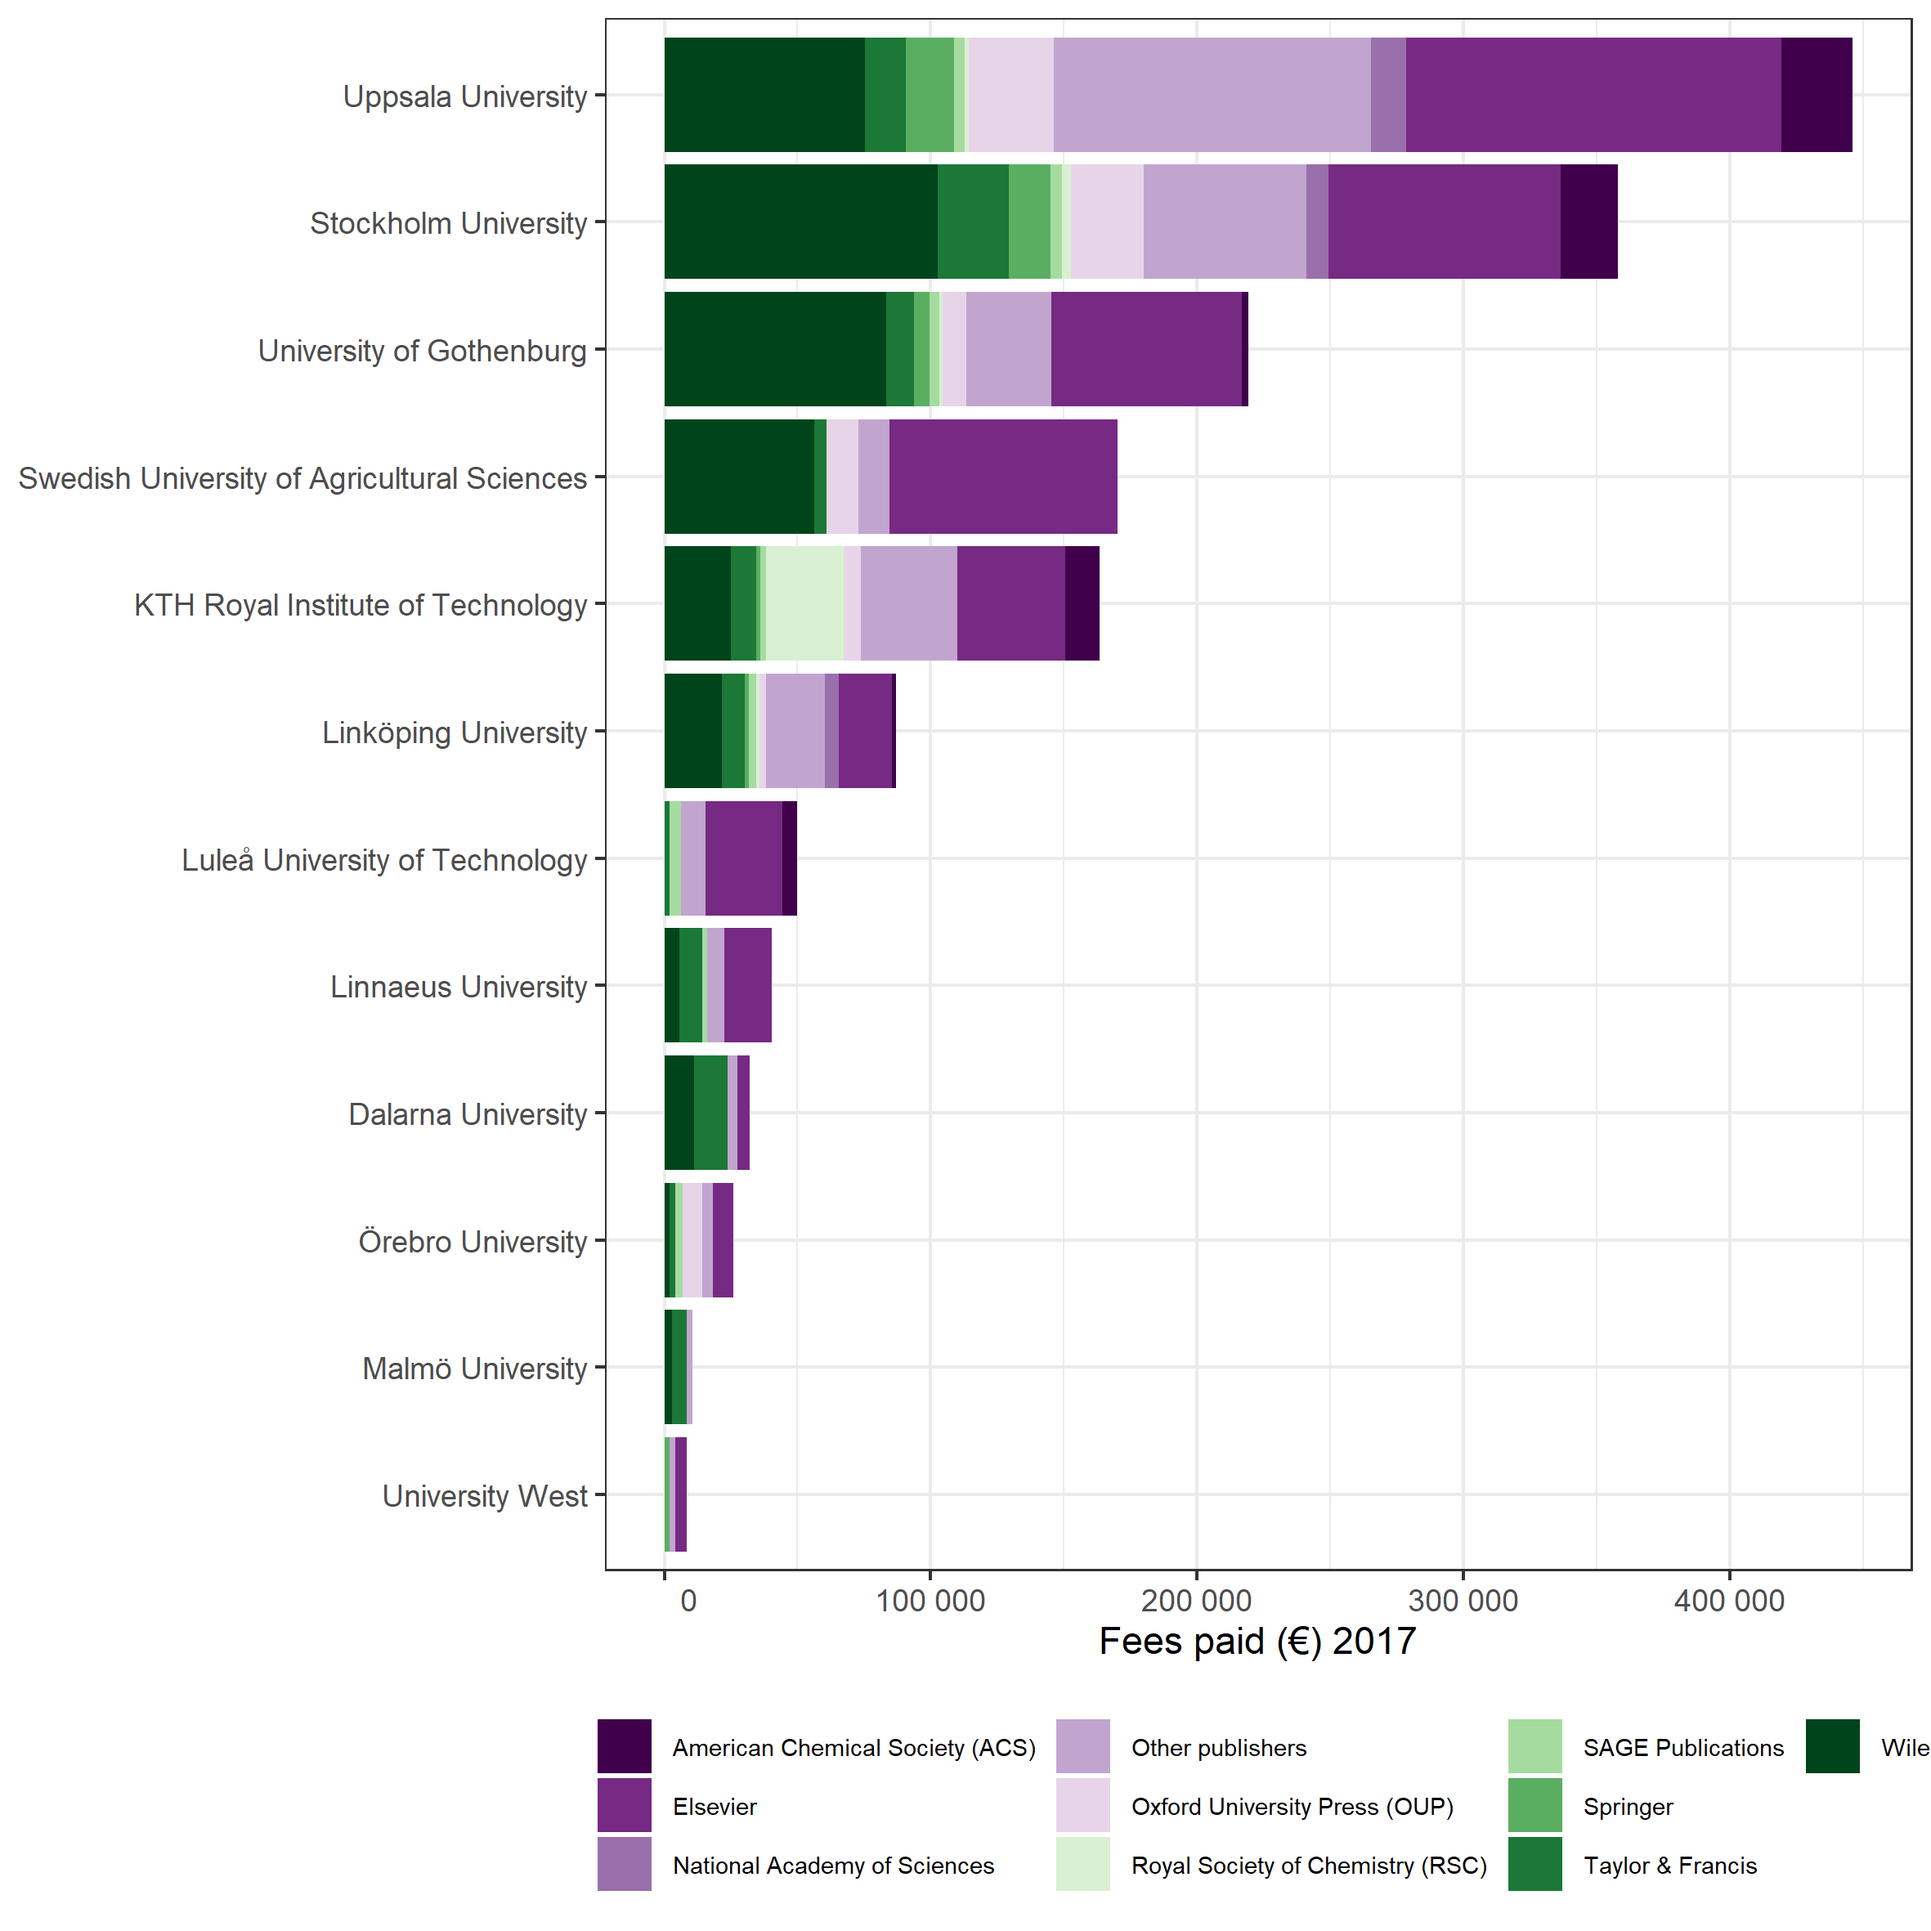
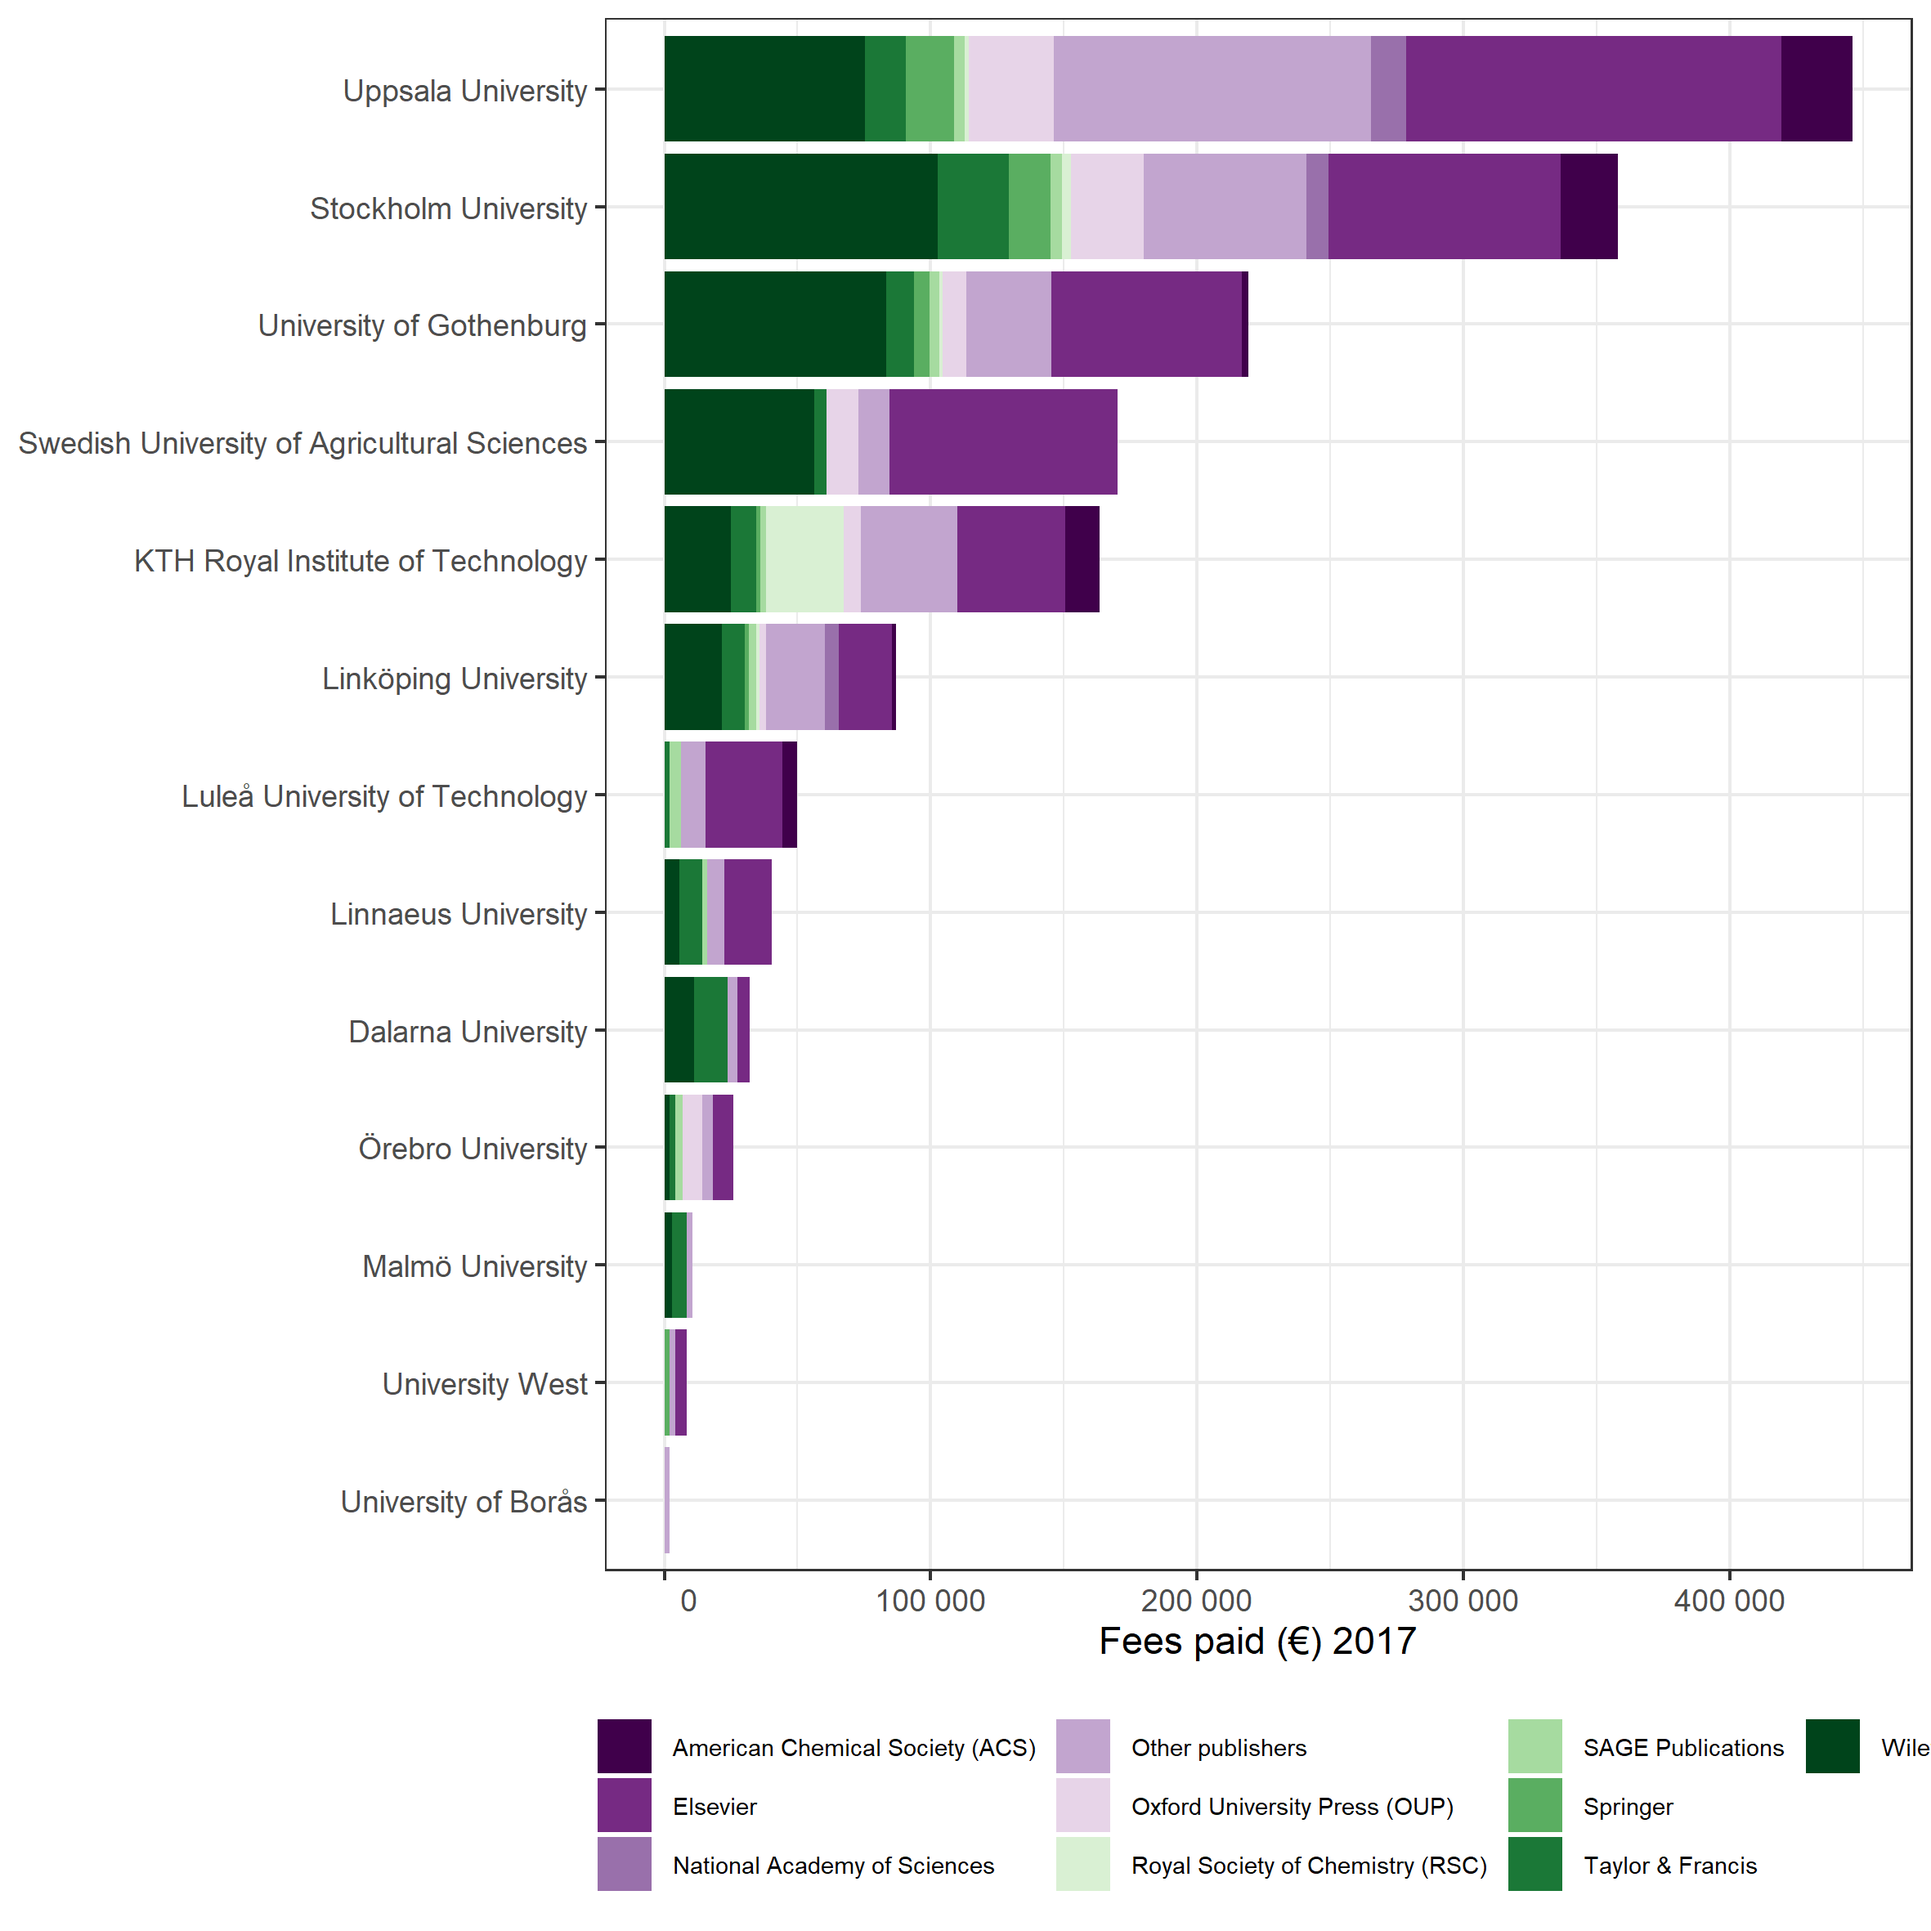
updated stats file removed non-articles

diff --git a/statistics.md b/statistics.md
@@ -4,7 +4,7 @@ Open APC Sweden - Statistics
 This is an example of statistics from the pilot project Open APC Sweden,
 aiming at gathering data about article processing charges (APC"s) paid
 by Swedish universities. The statistics cover journal articles published
-mainly between 2014 and **2 018** from **14** contributors. Please see
+mainly between 2014 and **2 019** from **17** contributors. Please see
 the [project wiki](https://github.com/Kungbib/openapc-se/wiki) for more
 information about the project and instructions on how to contribute.
 
@@ -29,7 +29,17 @@ Dalarna University
 </tr>
 <tr>
 <td style="text-align:left;">
+Swedish School of Sport and Health Sciences
+</td>
+</tr>
+<tr>
+<td style="text-align:left;">
 University of Gothenburg
+</td>
+</tr>
+<tr>
+<td style="text-align:left;">
+University of Borås
 </td>
 </tr>
 <tr>
@@ -75,6 +85,11 @@ Malmö University
 <tr>
 <td style="text-align:left;">
 Örebro University
+</td>
+</tr>
+<tr>
+<td style="text-align:left;">
+Södertörns University
 </td>
 </tr>
 <tr>
@@ -152,8 +167,8 @@ Open Access Articles (Total: “gold”, “hybrid” and “offset”)
 
 At the moment, the dataset contains the following information:
 
--   Number of articles: **7 427**
--   Total expenditure: **13 732 694 €**
+-   Number of articles: **7 536**
+-   Total expenditure: **13 896 862 €**
 
 Articles and APC costs per institution (note that both delivering and
 non-delivering institutions are included):
@@ -291,7 +306,7 @@ Linköping University
 537
 </td>
 <td style="text-align:right;">
-978 100
+967 300
 </td>
 </tr>
 <tr>
@@ -299,10 +314,10 @@ Linköping University
 Linnaeus University
 </td>
 <td style="text-align:right;">
-72
+112
 </td>
 <td style="text-align:right;">
-143 234
+208 176
 </td>
 </tr>
 <tr>
@@ -453,10 +468,10 @@ Swedish University of Agricultural Sciences
 Södertörns University
 </td>
 <td style="text-align:right;">
-7
+21
 </td>
 <td style="text-align:right;">
-15 400
+40 300
 </td>
 </tr>
 <tr>
@@ -475,10 +490,10 @@ Umeå University
 University of Borås
 </td>
 <td style="text-align:right;">
-9
+28
 </td>
 <td style="text-align:right;">
-19 550
+46 709
 </td>
 </tr>
 <tr>
@@ -519,10 +534,10 @@ University of Skövde
 University West
 </td>
 <td style="text-align:right;">
-24
+60
 </td>
 <td style="text-align:right;">
-44 063
+102 030
 </td>
 </tr>
 <tr>
@@ -556,11 +571,11 @@ Articles in Open Access journals (“gold OA”), offset articles excluded
 At the moment, the dataset contains the following information on
 articles in open access journals:
 
--   Number of articles: **3 389**
--   Total expenditure: **4 684 566 €**
--   Average fee: **1 382 €**
--   Median fee: **1 351 €**
--   Share of articles with no fees: **3.2 %**
+-   Number of articles: **3 467**
+-   Total expenditure: **4 780 505 €**
+-   Average fee: **1 379 €**
+-   Median fee: **1 350 €**
+-   Share of articles with no fees: **3.1 %**
 
 Gold OA and APC costs per institution (note that both delivering and
 non-delivering institutions are included):
@@ -697,10 +712,10 @@ Linköping University
 323
 </td>
 <td style="text-align:right;">
-515 389
+504 589
 </td>
 <td style="text-align:right;">
-1 596
+1 562
 </td>
 <td style="text-align:right;">
 1 413
@@ -714,16 +729,16 @@ Linköping University
 Linnaeus University
 </td>
 <td style="text-align:right;">
-20
+51
 </td>
 <td style="text-align:right;">
-28 354
+77 058
 </td>
 <td style="text-align:right;">
-1 418
+1 511
 </td>
 <td style="text-align:right;">
-1 335
+1 424
 </td>
 <td style="text-align:right;">
 0
@@ -851,6 +866,26 @@ Swedish University of Agricultural Sciences
 </tr>
 <tr>
 <td style="text-align:left;">
+Södertörns University
+</td>
+<td style="text-align:right;">
+7
+</td>
+<td style="text-align:right;">
+6 111
+</td>
+<td style="text-align:right;">
+873
+</td>
+<td style="text-align:right;">
+900
+</td>
+<td style="text-align:right;">
+0
+</td>
+</tr>
+<tr>
+<td style="text-align:left;">
 Umeå University
 </td>
 <td style="text-align:right;">
@@ -867,6 +902,26 @@ Umeå University
 </td>
 <td style="text-align:right;">
 33
+</td>
+</tr>
+<tr>
+<td style="text-align:left;">
+University of Borås
+</td>
+<td style="text-align:right;">
+16
+</td>
+<td style="text-align:right;">
+21 106
+</td>
+<td style="text-align:right;">
+1 319
+</td>
+<td style="text-align:right;">
+1 364
+</td>
+<td style="text-align:right;">
+0
 </td>
 </tr>
 <tr>
@@ -914,16 +969,16 @@ University of Skövde
 University West
 </td>
 <td style="text-align:right;">
-6
+30
 </td>
 <td style="text-align:right;">
-4 868
+35 686
 </td>
 <td style="text-align:right;">
-811
+1 190
 </td>
 <td style="text-align:right;">
-729
+1 136
 </td>
 <td style="text-align:right;">
 0
@@ -998,7 +1053,7 @@ PLOS ONE
 Public Library of Science (PLoS)
 </td>
 <td style="text-align:right;">
-363
+365
 </td>
 </tr>
 <tr>
@@ -1009,7 +1064,18 @@ Scientific Reports
 Springer
 </td>
 <td style="text-align:right;">
-277
+278
+</td>
+</tr>
+<tr>
+<td style="text-align:left;">
+Sustainability
+</td>
+<td style="text-align:left;">
+MDPI
+</td>
+<td style="text-align:right;">
+63
 </td>
 </tr>
 <tr>
@@ -1018,6 +1084,17 @@ Acta Veterinaria Scandinavica
 </td>
 <td style="text-align:left;">
 BioMed Central
+</td>
+<td style="text-align:right;">
+59
+</td>
+</tr>
+<tr>
+<td style="text-align:left;">
+Ecology and Evolution
+</td>
+<td style="text-align:left;">
+Wiley
 </td>
 <td style="text-align:right;">
 59
@@ -1036,35 +1113,13 @@ Springer
 </tr>
 <tr>
 <td style="text-align:left;">
-Sustainability
-</td>
-<td style="text-align:left;">
-MDPI
-</td>
-<td style="text-align:right;">
-58
-</td>
-</tr>
-<tr>
-<td style="text-align:left;">
-Ecology and Evolution
-</td>
-<td style="text-align:left;">
-Wiley
-</td>
-<td style="text-align:right;">
-57
-</td>
-</tr>
-<tr>
-<td style="text-align:left;">
 Frontiers in Psychology
 </td>
 <td style="text-align:left;">
 Frontiers
 </td>
 <td style="text-align:right;">
-49
+50
 </td>
 </tr>
 <tr>
@@ -1091,24 +1146,13 @@ Taylor & Francis
 </tr>
 <tr>
 <td style="text-align:left;">
-BMJ Open
-</td>
-<td style="text-align:left;">
-BMJ
-</td>
-<td style="text-align:right;">
-37
-</td>
-</tr>
-<tr>
-<td style="text-align:left;">
 International Journal of Environmental Research and Public Health
 </td>
 <td style="text-align:left;">
 MDPI
 </td>
 <td style="text-align:right;">
-37
+39
 </td>
 </tr>
 </tbody>
